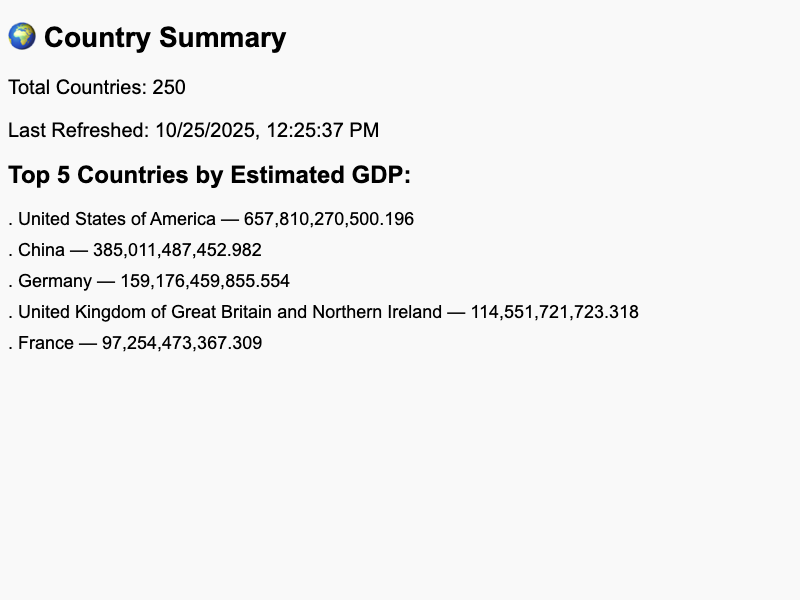
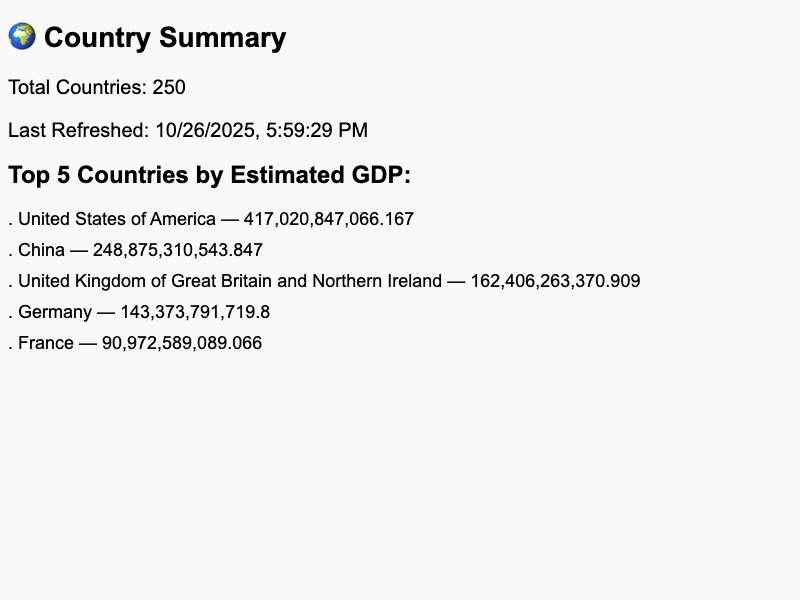
made /countries/refresh endpoint async

diff --git a/routes/countries.js b/routes/countries.js
@@ -78,4 +78,27 @@ router.get("/", countryController.getAllCountries);
 router.get("/image", countryController.getSummaryImage);
 router.get("/:name", countryController.getCountryByName);
 
+/**
+ * @swagger
+ * /countries/{name}:
+ *   delete:
+ *     summary: Delete a country by name
+ *     tags: [Countries]
+ *     parameters:
+ *       - in: path
+ *         name: name
+ *         required: true
+ *         schema:
+ *           type: string
+ *         description: The name of the country
+ *     responses:
+ *       200:
+ *         description: Country deleted successfully
+ *       404:
+ *         description: Country not found
+ *       500:
+ *         description: Internal server error
+ */
+router.delete("/:name", countryController.deleteCountryByName);
+
 module.exports = router;

diff --git a/controllers/countryController.js b/controllers/countryController.js
@@ -4,14 +4,9 @@ const { Country } = require("../models");
 const countryService = require("../services/countryService");
 const fs = require("fs");
 
-exports.refreshCountries = async (req, res) => {
-  try {
-    await countryService.refreshCountryData();
-    res.status(200).json({ message: "Country data refreshed successfully" });
-  } catch (error) {
-    logger.error(error);
-    res.status(500).json({ error: "Internal server error" });
-  }
+exports.refreshCountries = (req, res) => {
+  countryService.refreshCountryData().catch(logger.error);
+  res.status(202).json({ message: "Country data refresh initiated" });
 };
 
 exports.getAllCountries = async (req, res) => {
